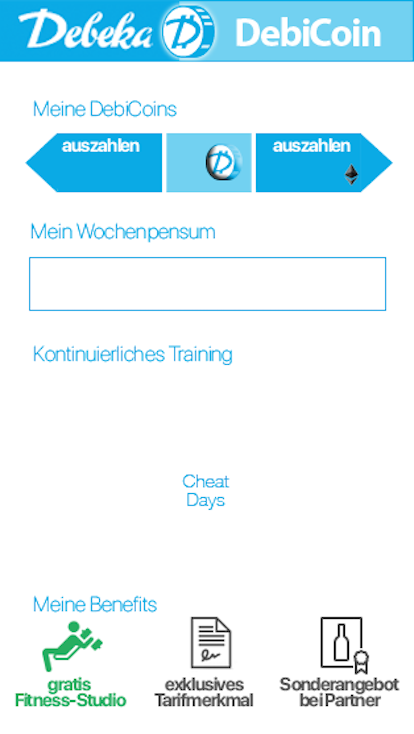
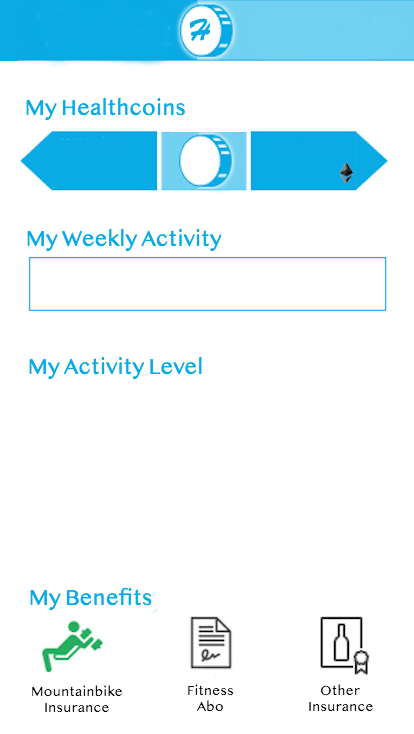
Fixed background image and number divs

diff --git a/app/views/AppView.js b/app/views/AppView.js
@@ -3,7 +3,8 @@ import { Progress, Input } from 'reactstrap';
 import { Circle } from 'rc-progress';
 import Modal from 'react-modal';
 
-const ENDPOINT_URL = 'http://52.232.41.117:8000'
+//const ENDPOINT_URL = 'http://52.232.41.117:8000'
+const ENDPOINT_URL = 'http://localhost:8000'
 
 const customStyles = {
   content : {
@@ -102,12 +103,12 @@ class AppView extends Component {
                 <div>
                     <div id="euro-value">{this.state.euro} &euro;</div>
                     <div id="ether-value" onClick={this.openModal}>{this.state.ether}</div>
-                    <div id="debicoins">{this.state.coins}</div>
+                    <div id="health-coins">{this.state.coins}</div>
                 </div>
-                <div className="progressbar">
+                <div className="progress-bar-wrapper">
                     <Progress bar color="success" value={this.state.percentageInCurrentPeriod * 100}>{this.state.percentageInCurrentPeriod * 100} %</Progress>
                 </div>
-                <div className="progressCircle">
+                <div className="progress-circle">
                     <div id="progress-value">2</div>
                     <Circle percent={this.state.regularity * 100} strokeWidth="10" strokeColor="#22ace3" trailWidth="10" trailColor="#77d1ed"/>
                 </div>
@@ -119,7 +120,7 @@ class AppView extends Component {
                   contentLabel="Auszahlen"
                 >
                   <h2>Auszahlen</h2>
-                  <div>DebiCoins als Ether auszahlen:</div>
+                  <div>HealthCoins als Ether auszahlen:</div>
                   <form>
                     <Input type="number" step="1" value={this.state.coinsAuszahlen} onChange={() => { console.log() }}/>
                     <button onClick={this.closeModal}>Abbrechen</button>

diff --git a/public/css/style.css b/public/css/style.css
@@ -4,44 +4,47 @@ body {
 
 #euro-value {
 	position: absolute;
-	top: 144px;
+	top: 136px;
 	left: 92px;
 	font-size: 35px;
 	color: white;
 }
 
-#debicoins {
+#health-coins {
 	position: absolute;
-	top: 148px;
-	left: 182px;
+	top: 140px;
+	left: 192px;
 	font-size: 30px;
-	color: white;
+	color: #0aaae5;
 }
 
 #ether-value {
 	position: absolute;
-	top: 156px;
+	top: 145px;
 	left: 265px;
 	font-size: 24px;
 	color: white;
 }
 
-.progressbar {
+.progress-bar-wrapper {
 	width: 360px!important;
     position: absolute!important;
     height: 52px!important;
     top: 258px!important;
     left: 28px!important;
     background-color: #77d1ed!important;
+
+    div span {
+    	font-size: 10px!important;
+    }
 }
 
 .progress-bar {
 	background-color: #22ace3!important;
-	font-size: 30px!important;
 	padding-top: 15px;
 }
 
-.progressCircle {
+.progress-circle {
 	width: 150px;
 	height: 150px;
 	position: absolute;
@@ -54,7 +57,7 @@ body {
 	width: 150px;
 	height: 150px;
 	position: absolute;
-	top: 20px;
+	top: 38px;
 	left: 60px;
 	color: #22ace3!important;
 	font-size: 48px;
